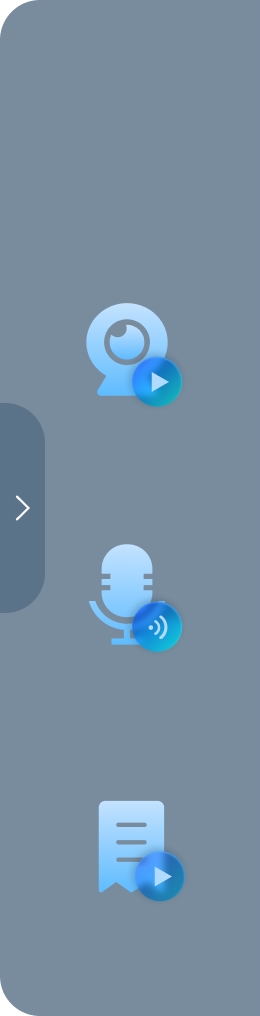
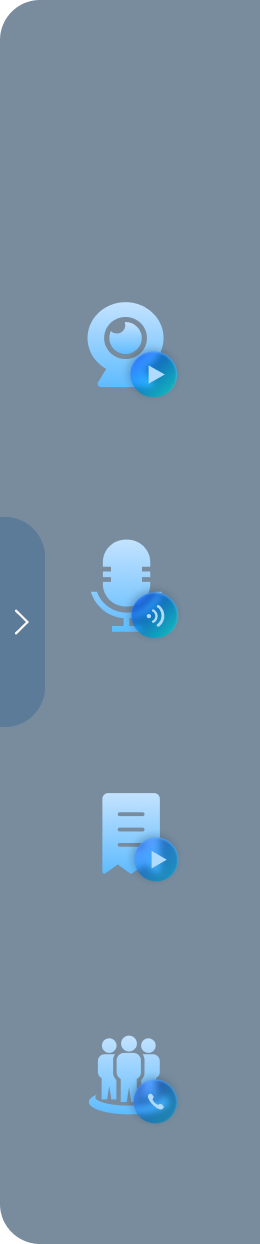
按钮挑战

diff --git a/simo-leaderview-vue/src/views/HomePage/HomePage.vue b/simo-leaderview-vue/src/views/HomePage/HomePage.vue
@@ -117,6 +117,7 @@
                     <div class="AhrefBox"><a href="">视频调度</a></div>
                     <div class="AhrefBox"><a href="">语音调度</a></div>
                     <div class="AhrefBox" @mousemove="OpenChileBox = true" @mouseleave="OpenChileBox = false"><a href="">事件调度</a></div>
+                    <div class="AhrefBox"><a href="">队伍调度</a></div>
                     <div class="ChildrenBox" v-if="OpenChileBox"  @mousemove="OpenChileBox = true" @mouseleave="OpenChileBox = false">
                       <a href="">社区</a>
                       <a href="">专版/指挥部</a>
@@ -1831,10 +1832,10 @@ html[data-theme='blueWhite'] {
 }
 .BoxArry{
   .SmallBox{
-    height: 1016px;
+    height: 1244px;
     width: 45px;
     position: fixed;
-    top: 600px;
+    top: 500px;
     left: 3790px;
     // left: 0px;
     position: absolute;
@@ -1843,10 +1844,10 @@ html[data-theme='blueWhite'] {
     background-size: 100%  100%;
   }
   .BigBox{
-    height: 1016px;
+    height: 1244px;
     width: 253px;
     position: fixed;
-    top: 600px;
+    top: 500px;
     left: 3580px;
 //    left: 0px;
     background-color: rgb(12, 236, 206);
@@ -1860,11 +1861,11 @@ html[data-theme='blueWhite'] {
       // right: 0px;
       cursor: pointer;
       position: absolute;
-      top: 400px;
+      top: 510px;
       z-index: 10000;
     }
     .AhrefBox{
-      height: 260px;
+      height: 248px;
       padding: 30px;
       position: relative;
       width: 260px;

diff --git a/simo-leaderview-vue/src/views/lookPage/lookPage.vue b/simo-leaderview-vue/src/views/lookPage/lookPage.vue
@@ -81,6 +81,7 @@
                     <div class="AhrefBox"><a href="">视频调度</a></div>
                     <div class="AhrefBox"><a href="">语音调度</a></div>
                     <div class="AhrefBox" @mousemove="OpenChileBox = true" @mouseout="OpenChileBox = false"><a href="">事件调度</a></div>
+                    <div class="AhrefBox"><a href="">队伍调度</a></div>
                     <div class="ChildrenBox" v-if="OpenChileBox"  @mousemove="OpenChileBox = true" @mouseout="OpenChileBox = false">
                       <a href="">社区</a>
                       <a href="">专版/指挥部</a>
@@ -1717,10 +1718,10 @@ html[data-theme='blueWhite'] {
 }
 .BoxArry{
   .SmallBox{
-    height: 1016px;
+    height: 1244px;
     width: 45px;
     position: fixed;
-    top: 600px;
+    top: 500px;
     left: 3790px;
 // left: 0px;
     position: absolute;
@@ -1729,10 +1730,10 @@ html[data-theme='blueWhite'] {
     background-size: 100%  100%;
   }
   .BigBox{
-    height: 1016px;
+    height: 1244px;
     width: 253px;
     position: fixed;
-    top: 600px;
+    top: 500px;
     left: 3580px;
 // left: 0px;
     background-color: rgb(12, 236, 206);
@@ -1746,11 +1747,11 @@ html[data-theme='blueWhite'] {
       cursor: pointer;
       // right: 0px;
       position: absolute;
-      top: 400px;
+      top: 510px;
       z-index: 10000;
     }
     .AhrefBox{
-      height: 260px;
+      height: 248px;
       padding: 30px;
       position: relative;
       width: 260px;
